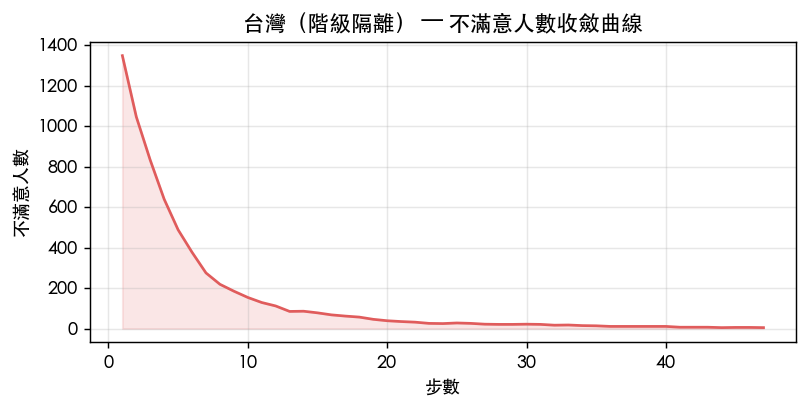
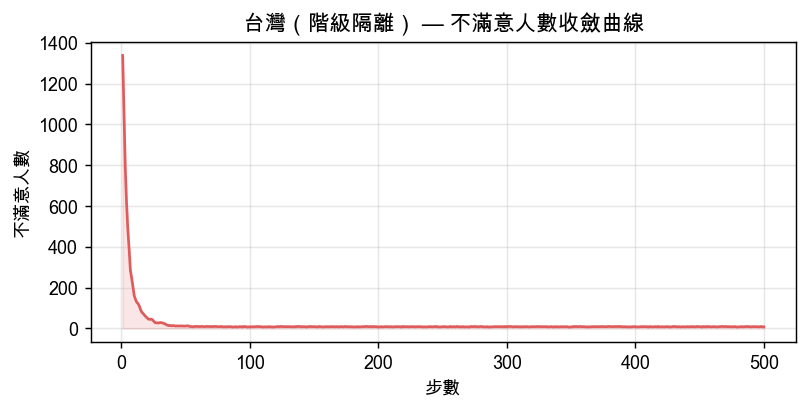
feat: 擴展報告至三國比較（美國、台灣、日本）
- simulation_report.py：新增日本場景（高阻力 0.65、強 CBD 0.90、一極集中）
- human_simulation.py：新增中文字體設定、仕紳化參數加入 __main__
- report_output：更新三國模擬結果圖與 Markdown 報告，移除舊版圖片

Changed region(s): [[0.0, 0.0294, 0.9901, 0.9118], [0.526, 0.9118, 0.5879, 0.9706]]

diff --git a/simulation_report.py b/simulation_report.py
@@ -1,5 +1,5 @@
 """
-美國 vs 台灣居住隔離模擬報告
+美國、台灣、日本居住隔離模擬報告
 使用 Schelling Segregation Model（含 CBD 效應改良版）
 """
 
@@ -124,7 +124,7 @@ def write_report(results: list) -> str:
     lines = []
 
     lines += [
-        f"# 居住隔離模擬報告：美國 vs 台灣",
+        f"# 居住隔離模擬報告：美國 vs 台灣 vs 日本",
         f"",
         f"生成日期：{today}  ",
         f"模型：Schelling Segregation Model（改良版，含 CBD 市中心效應）",
@@ -201,22 +201,27 @@ def write_report(results: list) -> str:
             f"",
         ]
 
-    # 比較表
+    # 比較表（動態，支援任意國家數量）
     usa = next(r for r in results if "美國" in r["name"])
     twn = next(r for r in results if "台灣" in r["name"])
+    jpn = next(r for r in results if "日本" in r["name"])
+
+    def pct(r): return f"{r['final_unhappy']/r['total_occupied']*100:.1f}%"
 
     lines += [
-        f"## 兩國比較",
+        f"## 三國比較",
         f"",
-        f"| 指標 | 美國 | 台灣 |",
-        f"|------|------|------|",
-        f"| 收斂步數 | {usa['steps']} | {twn['steps']} |",
-        f"| 初始隔離指數 | {usa['init_seg']:.3f} | {twn['init_seg']:.3f} |",
-        f"| 最終隔離指數 | {usa['final_seg']:.3f} | {twn['final_seg']:.3f} |",
-        f"| 隔離指數上升幅度 | +{usa['delta_seg']:.3f} | +{twn['delta_seg']:.3f} |",
-        f"| 最終不滿意比例 | {usa['final_unhappy']/usa['total_occupied']*100:.1f}% | {twn['final_unhappy']/twn['total_occupied']*100:.1f}% |",
-        f"| 搬家阻力 | {usa['params'].friction_cost} （低） | {twn['params'].friction_cost} （高） |",
-        f"| 市中心吸引力 | {usa['params'].cbd_gravity} （弱） | {twn['params'].cbd_gravity} （強） |",
+        f"| 指標 | 美國 | 台灣 | 日本 |",
+        f"|------|------|------|------|",
+        f"| 收斂步數 | {usa['steps']} | {twn['steps']} | {jpn['steps']} |",
+        f"| 初始隔離指數 | {usa['init_seg']:.3f} | {twn['init_seg']:.3f} | {jpn['init_seg']:.3f} |",
+        f"| 最終隔離指數 | {usa['final_seg']:.3f} | {twn['final_seg']:.3f} | {jpn['final_seg']:.3f} |",
+        f"| 隔離指數上升幅度 | +{usa['delta_seg']:.3f} | +{twn['delta_seg']:.3f} | +{jpn['delta_seg']:.3f} |",
+        f"| 最終不滿意比例 | {pct(usa)} | {pct(twn)} | {pct(jpn)} |",
+        f"| 搬家阻力 | {usa['params'].friction_cost}（低） | {twn['params'].friction_cost}（中高） | {jpn['params'].friction_cost}（極高） |",
+        f"| 市中心吸引力 | {usa['params'].cbd_gravity}（弱，郊區化） | {twn['params'].cbd_gravity}（強） | {jpn['params'].cbd_gravity}（極強，一極集中） |",
+        f"| 富人市中心偏好 | {usa['params'].cbd_gravity_g2:.2f} | {twn['params'].cbd_gravity_g2:.2f} | {jpn['params'].cbd_gravity_g2:.2f} |",
+        f"| 窮人市中心偏好 | {usa['params'].cbd_gravity_g1:.2f} | {twn['params'].cbd_gravity_g1:.2f} | {jpn['params'].cbd_gravity_g1:.2f} |",
         f"",
         f"---",
         f"",
@@ -225,25 +230,37 @@ def write_report(results: list) -> str:
         f"### 美國",
         f"",
         f"- **低搬家阻力**（{usa['params'].friction_cost}）：居民對不滿意環境快速反應，隔離板塊形成速度快",
-        f"- **弱 CBD 效應**（{usa['params'].cbd_gravity}）：郊區化傾向使隔離從城市邊緣蔓延，缺乏混居緩衝區",
-        f"- **多數/少數比 {usa['params'].group1_ratio*100:.0f}%/{(1-usa['params'].group1_ratio)*100:.0f}%**：少數群體較難在各處形成足夠規模的聚落，被擠壓到少數角落",
-        f"- 最終隔離指數 **{usa['final_seg']:.3f}**，呈現清晰的大型單色板塊",
+        f"- **弱 CBD 效應**（{usa['params'].cbd_gravity}）：郊區化傾向（suburbanization）使族群隔離從城市邊緣蔓延，缺乏市中心混居緩衝區",
+        f"- **種族比例 {usa['params'].group1_ratio*100:.0f}%/{(1-usa['params'].group1_ratio)*100:.0f}%**：少數群體難以在各處形成足夠規模的聚落",
+        f"- 最終隔離指數 **{usa['final_seg']:.3f}**，呈現清晰的大型單色板塊，對應真實美國城市的種族隔離地圖",
         f"",
         f"### 台灣",
         f"",
-        f"- **高搬家阻力**（{twn['params'].friction_cost}）：房貸綁定、學區成本使居民即使不滿意也傾向忍耐，隔離演化較慢",
-        f"- **強 CBD 效應（非對稱）**：富人 cbd_gravity={twn['params'].cbd_gravity_g2}，窮人 cbd_gravity={twn['params'].cbd_gravity_g1:.2f}",
-        f"  → 富人優先搶佔市中心，窮人被推向外圍郊區，形成「中心富人、外圍窮人」的同心圓結構",
-        f"- **高搬家阻力**（{twn['params'].friction_cost}）：即使不滿意，仍有 {twn['params'].friction_cost*100:.0f}% 機率忍耐不動，隔離演化較慢",
-        f"- 最終隔離指數 **{twn['final_seg']:.3f}**，隔離現象較美國緩和，但具有明顯的經濟階層空間分化",
+        f"- **中高搬家阻力**（{twn['params'].friction_cost}）：高房價與房貸綁定使居民傾向忍耐，隔離演化較緩",
+        f"- **強 CBD 效應（非對稱）**：高所得 cbd_gravity={twn['params'].cbd_gravity_g2}，一般所得 cbd_gravity={twn['params'].cbd_gravity_g1:.2f}",
+        f"  → 高所得優先搶佔市中心，一般所得被推向外圍，形成「中心富人、外圍窮人」同心圓結構",
+        f"- 最終隔離指數 **{twn['final_seg']:.3f}**，隔離現象以經濟階層為主要分化軸，對應台北大安/文山的所得空間分布",
+        f"",
+        f"### 日本",
+        f"",
+        f"- **極高搬家阻力**（{jpn['params'].friction_cost}）：終身雇用文化、老齡化社會與低持有稅使居民幾乎不主動搬家",
+        f"- **極強一極集中**（{jpn['params'].cbd_gravity}）：東京向心力壓倒一切，模型中幾乎所有可移動者都趨向都心",
+        f"- **極低窮人中心偏好**（{jpn['params'].cbd_gravity_g1:.2f}）：一般勞動者退往郊外衛星市鎮（埼玉、千葉、神奈川），都心留給專業階層",
+        f"- 高阻力使隔離形成速度最慢，但最終可能形成**結構性固化**：一旦形成即難以改變",
+        f"- 最終隔離指數 **{jpn['final_seg']:.3f}**，反映「遲緩但固化」的空間分化特徵",
         f"",
         f"### Schelling 核心洞察",
         f"",
-        f"兩個場景都印證了 Schelling 的原始發現：",
-        f"**個人溫和的偏好（門檻 50~65%），在群體動態下會放大成遠超預期的社會隔離結構。**",
-        f"政策意涵上，單純降低門檻（提倡包容）的效果有限；",
-        f"提高搬家阻力（租金補貼、稅制改革）或強化 CBD 混居誘因，",
-        f"才能從機制層面減緩隔離的自發性形成。",
+        f"三個場景都印證了 Schelling 的原始發現：",
+        f"**個人溫和的偏好（門檻 55~65%），在群體動態下會放大成遠超預期的社會隔離結構。**",
+        f"",
+        f"三國的差異在於**驅動機制不同**：",
+        f"- 美國：偏好導向（主動選擇同族鄰居）",
+        f"- 台灣：價格導向（高所得搶市中心，低所得被動外移）",
+        f"- 日本：慣性主導（極低流動性使現有格局固化，變動主要來自年輕世代首次置業）",
+        f"",
+        f"政策意涵：單純提倡包容（降低門檻）效果有限；",
+        f"針對機制對症下藥——提高美國搬家成本（租金穩定）、台灣補貼窮人進入市中心、日本促進居住流動——才能從根本緩解隔離。",
     ]
 
     report_path = os.path.join(OUTPUT_DIR, "segregation_report.md")
@@ -263,27 +280,40 @@ SCENARIOS = [
         threshold_g1=0.65,   # 歷史上較高的種族偏好門檻
         threshold_g2=0.65,   # 少數族群同樣傾向防禦性聚居
         friction_cost=0.15,  # 美國流動率高，搬家阻力低
-        cbd_gravity=0.2,     # 郊區化，市中心吸引力弱（兩群相同）
+        cbd_gravity=0.2,     # 郊區化，市中心吸引力弱
         max_steps=300,
         neighborhood="moore",
     )),
     ("台灣（階級隔離）", Params(
         size=60,
         empty_ratio=0.15,    # 台灣整體空屋率約 10~15%
-        group1_ratio=0.65,   # Group1=窮人 65% / Group2=富人 35%
-        threshold_g1=0.55,   # 窮人對混居有一定容忍度
+        group1_ratio=0.65,   # Group1=一般所得 65% / Group2=高所得 35%
+        threshold_g1=0.55,   # 對混居有一定容忍度
         threshold_g2=0.55,   # 富人亦然，但搬家行為不同
         friction_cost=0.50,  # 高搬家阻力：房貸綁定、高房價、學區限制
-        cbd_gravity=0.85,    # 市中心容忍度加成（兩群都更包容）
-        cbd_gravity_g1=0.2,  # 窮人：負擔不起市中心，隨機找郊區空地
-        cbd_gravity_g2=0.95, # 富人：強力搶佔市中心精華地段
+        cbd_gravity=0.85,    # 市中心容忍度加成
+        cbd_gravity_g1=0.2,  # 一般所得：負擔不起市中心，偏向郊區
+        cbd_gravity_g2=0.95, # 高所得：強力搶佔市中心精華地段
+        max_steps=500,
+        neighborhood="moore",
+    )),
+    ("日本（都市集中＋低流動性）", Params(
+        size=60,
+        empty_ratio=0.14,    # 全國空屋率約 13~14%（空き家問題），都市區較低
+        group1_ratio=0.75,   # 多數：一般勞動階層 / 少數：都市專業階層
+        threshold_g1=0.60,   # 日本社會同質性高，對同群有一定偏好
+        threshold_g2=0.65,   # 專業階層稍強的同質偏好
+        friction_cost=0.65,  # 極高阻力：終身雇用、老齡化、持有稅低不誘使換房
+        cbd_gravity=0.90,    # 極強東京向心力（一極集中）
+        cbd_gravity_g1=0.15, # 一般勞動者：難以進入都心，退往郊外衛星市鎮
+        cbd_gravity_g2=0.95, # 專業階層：強力集中在都心 23 區精華地段
         max_steps=500,
         neighborhood="moore",
     )),
 ]
 
 if __name__ == "__main__":
-    print("=== 居住隔離模擬：美國 vs 台灣 ===\n")
+    print("=== 居住隔離模擬：美國 vs 台灣 vs 日本 ===\n")
 
     results = []
     for name, p in SCENARIOS:

diff --git a/human_simulation.py b/human_simulation.py
@@ -4,6 +4,10 @@ from matplotlib import animation
 from dataclasses import dataclass
 from scipy.ndimage import convolve
 
+# 設定中文字體（macOS）
+plt.rcParams['font.family'] = ['Arial Unicode MS', 'PingFang SC', 'Heiti TC', 'sans-serif']
+plt.rcParams['axes.unicode_minus'] = False  # 修正負號顯示
+
 @dataclass
 class Params:
     # ── 地圖設定 ──────────────────────────────────────────────────────────────
@@ -341,13 +345,18 @@ def run(p: Params, seed: int = 7, animate: bool = True):
 if __name__ == "__main__":
     p = Params(
         size=60,
-        empty_ratio=0.2,      # 20% 空屋，提供足夠搬家緩衝空間
-        group1_ratio=0.5,     # 兩族人口各佔一半
-        threshold_g1=0.65,    # 高門檻 → 外部強烈隔離（8鄰需 ≥6 個同類）
+        empty_ratio=0.05,          # 20% 空屋，提供足夠搬家緩衝空間
+        group1_ratio=0.5,         # 兩族人口各佔一半
+        threshold_g1=0.65,        # 高門檻 → 外部強烈隔離（8鄰需 ≥6 個同類）
         threshold_g2=0.65,
-        friction_cost=0.0,    # 無阻力：不滿意立刻行動
-        cbd_gravity=0.8,      # 0.8 > threshold 0.65 → 市中心永遠滿意，自然雜居
+        friction_cost=0.0,        # 無阻力：不滿意立刻行動
+        cbd_gravity=0.8,          # 0.8 > threshold 0.65 → 市中心永遠滿意，自然雜居
+        cbd_gravity_g1=0.2,       # 窮人較難搶市中心
+        cbd_gravity_g2=0.95,      # 富人強力搶市中心
         max_steps=500,
-        neighborhood="moore", # 8 宮格：板塊邊界平滑
+        neighborhood="moore",     # 8 宮格：板塊邊界平滑
+        price_enabled=True,       # 啟用仕紳化機制
+        price_cbd_premium=1.0,    # 市中心初始溢價
+        income_limit_g1=1.5,      # 窮人負擔上限（超過即被驅逐）
     )
     run(p, seed=7, animate=True)

diff --git a/report_output/segregation_report.md b/report_output/segregation_report.md
@@ -1,4 +1,4 @@
-# 居住隔離模擬報告：美國 vs 台灣
+# 居住隔離模擬報告：美國 vs 台灣 vs 日本
 
 生成日期：2026-03-08  
 模型：Schelling Segregation Model（改良版，含 CBD 市中心效應）
@@ -48,11 +48,11 @@
 
 | 指標 | 數值 |
 |------|------|
-| 收斂步數 | 49 步 |
+| 收斂步數 | 71 步 |
 | 初始隔離指數 | 0.521 |
-| 最終隔離指數 | 0.979 |
-| 隔離指數上升 | +0.458 |
-| 最終不滿意人數 | 1 / 3060 人 （0.0%）|
+| 最終隔離指數 | 0.982 |
+| 隔離指數上升 | +0.461 |
+| 最終不滿意人數 | 0 / 3060 人 （0.0%）|
 
 ### 最終居住分布
 
@@ -89,11 +89,11 @@
 
 | 指標 | 數值 |
 |------|------|
-| 收斂步數 | 47 步 |
+| 收斂步數 | 500 步 |
 | 初始隔離指數 | 0.543 |
-| 最終隔離指數 | 0.921 |
-| 隔離指數上升 | +0.378 |
-| 最終不滿意人數 | 5 / 3060 人 （0.2%）|
+| 最終隔離指數 | 0.919 |
+| 隔離指數上升 | +0.376 |
+| 最終不滿意人數 | 8 / 3060 人 （0.3%）|
 
 ### 最終居住分布
 
@@ -108,17 +108,60 @@
 
 ---
 
-## 兩國比較
+## 日本（都市集中＋低流動性）
 
-| 指標 | 美國 | 台灣 |
-|------|------|------|
-| 收斂步數 | 49 | 47 |
-| 初始隔離指數 | 0.521 | 0.543 |
-| 最終隔離指數 | 0.979 | 0.921 |
-| 隔離指數上升幅度 | +0.458 | +0.378 |
-| 最終不滿意比例 | 0.0% | 0.2% |
-| 搬家阻力 | 0.15 （低） | 0.5 （高） |
-| 市中心吸引力 | 0.2 （弱） | 0.85 （強） |
+### 參數設定與設計理由
+
+| 參數 | 值 | 設計理由 |
+|------|----|----------|
+| `size` | 60 | 60×60 網格 |
+| `empty_ratio` | 0.14 | 空屋率 14% |
+| `group1_ratio` | 0.75 | 多數群體 75% / 少數 25% |
+| `threshold_g1` | 0.6 | 多數群體滿意門檻 |
+| `threshold_g2` | 0.65 | 少數群體滿意門檻 |
+| `friction_cost` | 0.65 | 搬家阻力 |
+| `cbd_gravity` | 0.9 | 市中心容忍度加成 |
+| `cbd_gravity_g1` | 0.15 | Group1（窮人）搬家市中心偏好 |
+| `cbd_gravity_g2` | 0.95 | Group2（富人）搬家市中心偏好 |
+| `neighborhood` | moore | 8宮格鄰居 |
+| `max_steps` | 500 | 最大步數 |
+
+### 模擬結果
+
+| 指標 | 數值 |
+|------|------|
+| 收斂步數 | 492 步 |
+| 初始隔離指數 | 0.629 |
+| 最終隔離指數 | 0.951 |
+| 隔離指數上升 | +0.322 |
+| 最終不滿意人數 | 17 / 3096 人 （0.5%）|
+
+### 最終居住分布
+
+![日本（都市集中＋低流動性） 最終分布](日本（都市集中＋低流動性）_final.png)
+
+> 藍綠色 = 群體 1（多數）；金色 = 群體 2（少數）；黑色 = 空屋
+> 紅色虛線圓圈 = CBD 市中心容忍加成範圍
+
+### 不滿意人數收斂曲線
+
+![日本（都市集中＋低流動性） 收斂曲線](日本（都市集中＋低流動性）_convergence.png)
+
+---
+
+## 三國比較
+
+| 指標 | 美國 | 台灣 | 日本 |
+|------|------|------|------|
+| 收斂步數 | 71 | 500 | 492 |
+| 初始隔離指數 | 0.521 | 0.543 | 0.629 |
+| 最終隔離指數 | 0.982 | 0.919 | 0.951 |
+| 隔離指數上升幅度 | +0.461 | +0.376 | +0.322 |
+| 最終不滿意比例 | 0.0% | 0.3% | 0.5% |
+| 搬家阻力 | 0.15（低） | 0.5（中高） | 0.65（極高） |
+| 市中心吸引力 | 0.2（弱，郊區化） | 0.85（強） | 0.9（極強，一極集中） |
+| 富人市中心偏好 | 0.20 | 0.95 | 0.95 |
+| 窮人市中心偏好 | 0.20 | 0.20 | 0.15 |
 
 ---
 
@@ -127,22 +170,34 @@
 ### 美國
 
 - **低搬家阻力**（0.15）：居民對不滿意環境快速反應，隔離板塊形成速度快
-- **弱 CBD 效應**（0.2）：郊區化傾向使隔離從城市邊緣蔓延，缺乏混居緩衝區
-- **多數/少數比 60%/40%**：少數群體較難在各處形成足夠規模的聚落，被擠壓到少數角落
-- 最終隔離指數 **0.979**，呈現清晰的大型單色板塊
+- **弱 CBD 效應**（0.2）：郊區化傾向（suburbanization）使族群隔離從城市邊緣蔓延，缺乏市中心混居緩衝區
+- **種族比例 60%/40%**：少數群體難以在各處形成足夠規模的聚落
+- 最終隔離指數 **0.982**，呈現清晰的大型單色板塊，對應真實美國城市的種族隔離地圖
 
 ### 台灣
 
-- **高搬家阻力**（0.5）：房貸綁定、學區成本使居民即使不滿意也傾向忍耐，隔離演化較慢
-- **強 CBD 效應（非對稱）**：富人 cbd_gravity=0.95，窮人 cbd_gravity=0.20
-  → 富人優先搶佔市中心，窮人被推向外圍郊區，形成「中心富人、外圍窮人」的同心圓結構
-- **高搬家阻力**（0.5）：即使不滿意，仍有 50% 機率忍耐不動，隔離演化較慢
-- 最終隔離指數 **0.921**，隔離現象較美國緩和，但具有明顯的經濟階層空間分化
+- **中高搬家阻力**（0.5）：高房價與房貸綁定使居民傾向忍耐，隔離演化較緩
+- **強 CBD 效應（非對稱）**：高所得 cbd_gravity=0.95，一般所得 cbd_gravity=0.20
+  → 高所得優先搶佔市中心，一般所得被推向外圍，形成「中心富人、外圍窮人」同心圓結構
+- 最終隔離指數 **0.919**，隔離現象以經濟階層為主要分化軸，對應台北大安/文山的所得空間分布
+
+### 日本
+
+- **極高搬家阻力**（0.65）：終身雇用文化、老齡化社會與低持有稅使居民幾乎不主動搬家
+- **極強一極集中**（0.9）：東京向心力壓倒一切，模型中幾乎所有可移動者都趨向都心
+- **極低窮人中心偏好**（0.15）：一般勞動者退往郊外衛星市鎮（埼玉、千葉、神奈川），都心留給專業階層
+- 高阻力使隔離形成速度最慢，但最終可能形成**結構性固化**：一旦形成即難以改變
+- 最終隔離指數 **0.951**，反映「遲緩但固化」的空間分化特徵
 
 ### Schelling 核心洞察
 
-兩個場景都印證了 Schelling 的原始發現：
-**個人溫和的偏好（門檻 50~65%），在群體動態下會放大成遠超預期的社會隔離結構。**
-政策意涵上，單純降低門檻（提倡包容）的效果有限；
-提高搬家阻力（租金補貼、稅制改革）或強化 CBD 混居誘因，
-才能從機制層面減緩隔離的自發性形成。
+三個場景都印證了 Schelling 的原始發現：
+**個人溫和的偏好（門檻 55~65%），在群體動態下會放大成遠超預期的社會隔離結構。**
+
+三國的差異在於**驅動機制不同**：
+- 美國：偏好導向（主動選擇同族鄰居）
+- 台灣：價格導向（高所得搶市中心，低所得被動外移）
+- 日本：慣性主導（極低流動性使現有格局固化，變動主要來自年輕世代首次置業）
+
+政策意涵：單純提倡包容（降低門檻）效果有限；
+針對機制對症下藥——提高美國搬家成本（租金穩定）、台灣補貼窮人進入市中心、日本促進居住流動——才能從根本緩解隔離。
